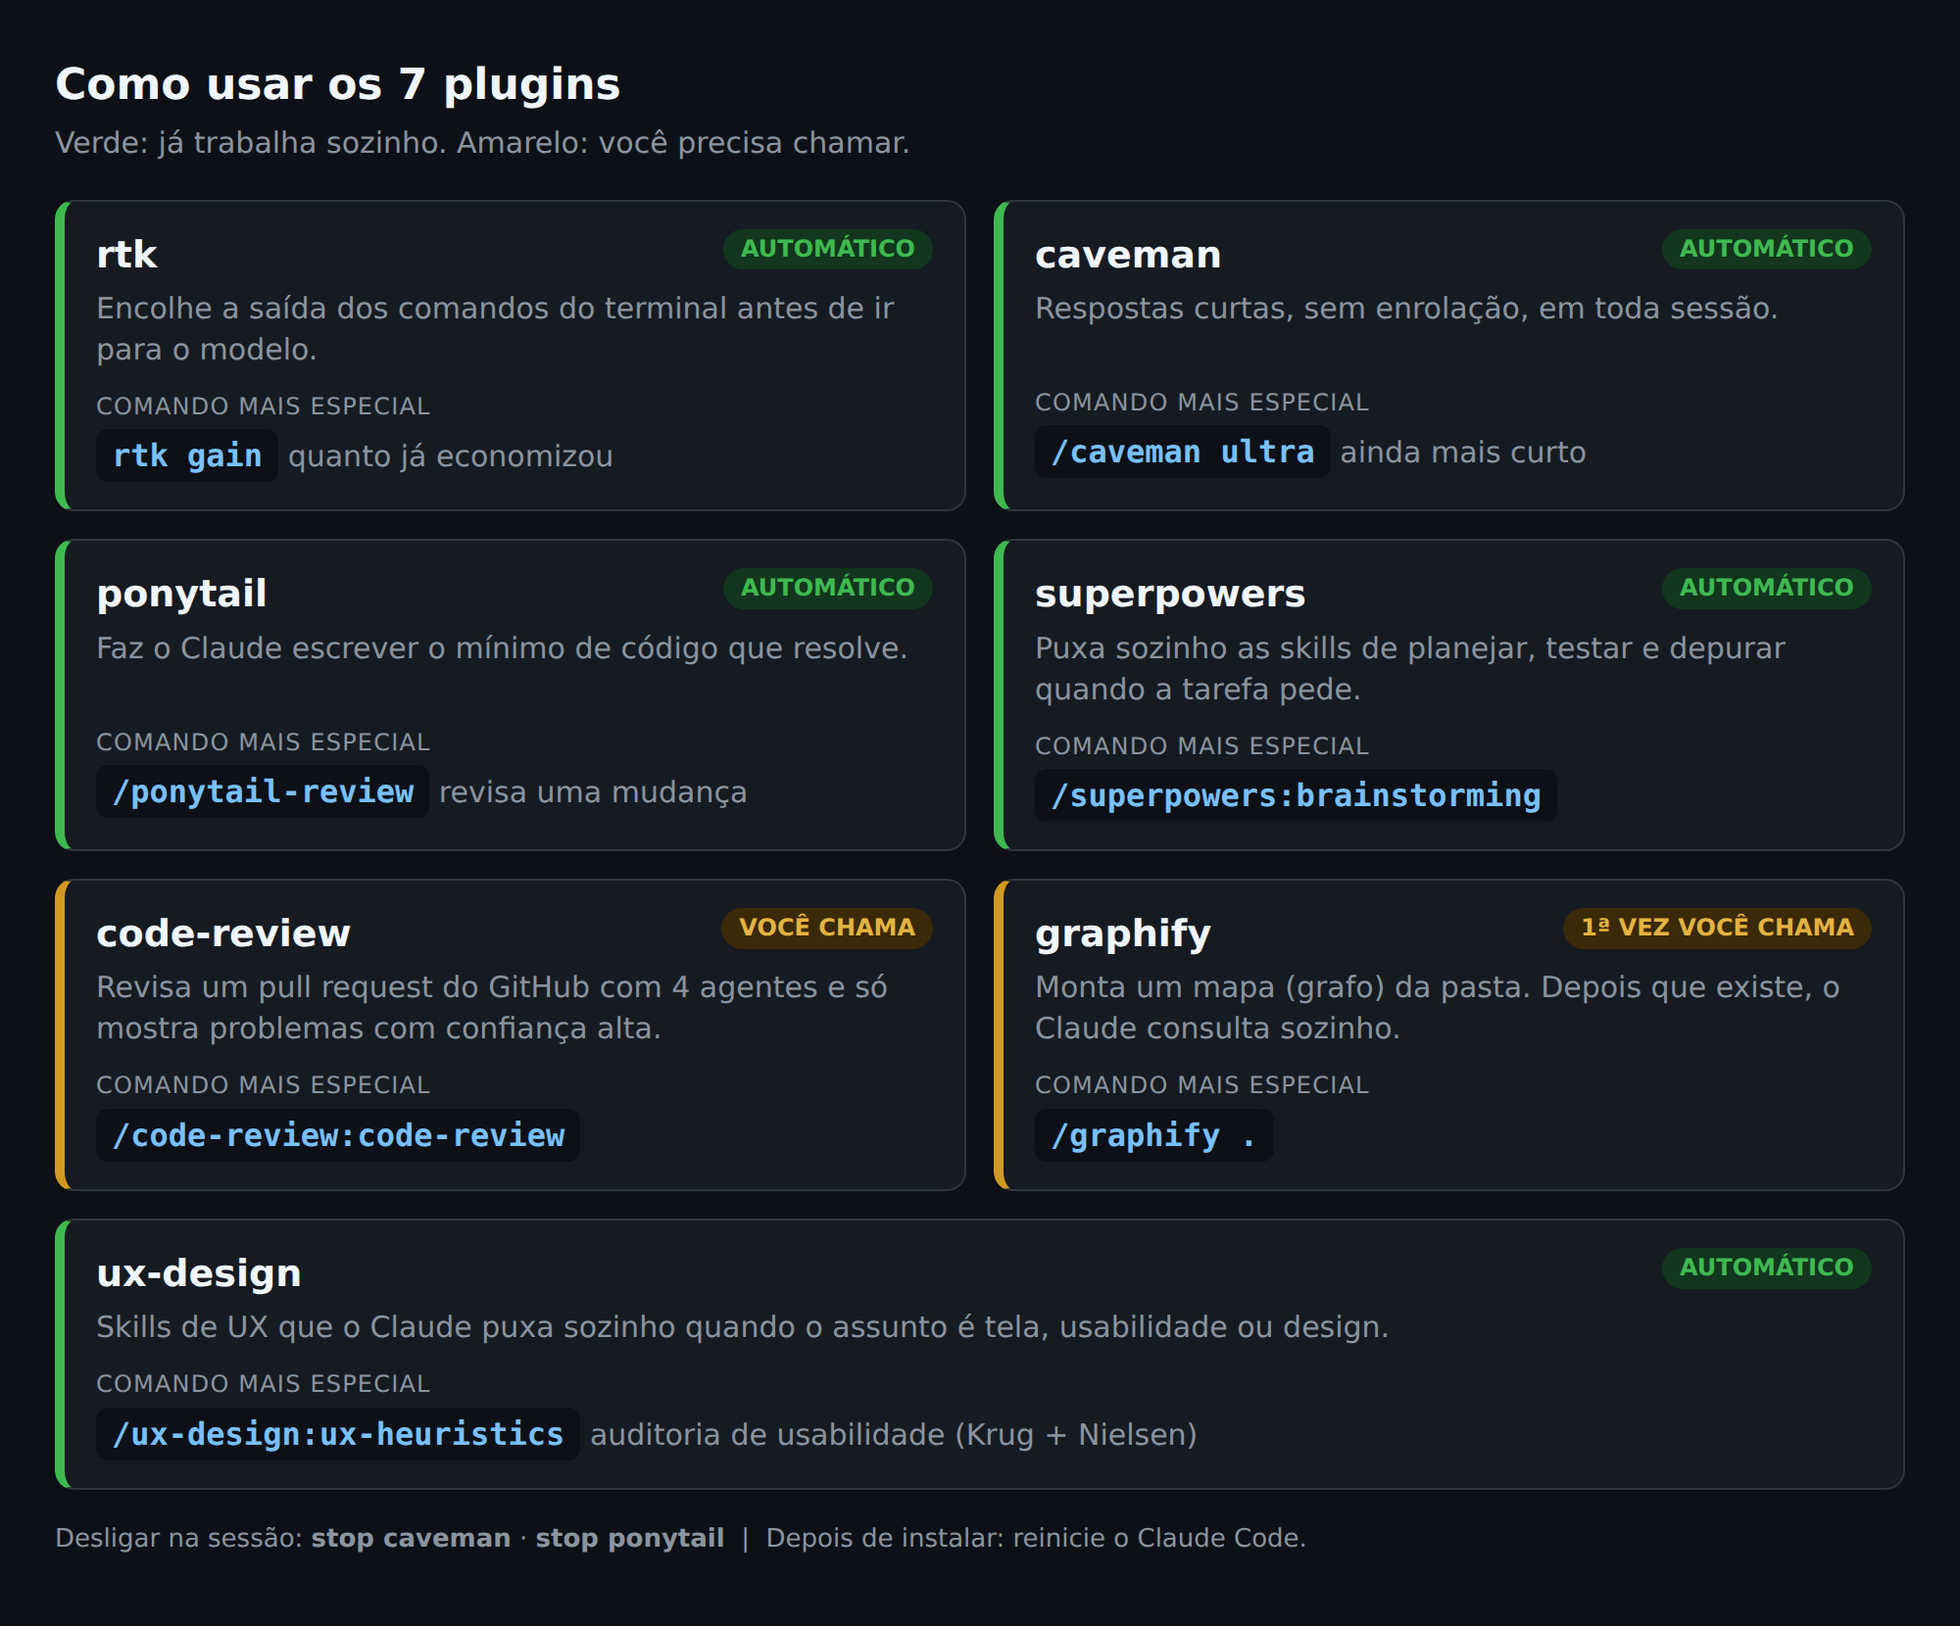
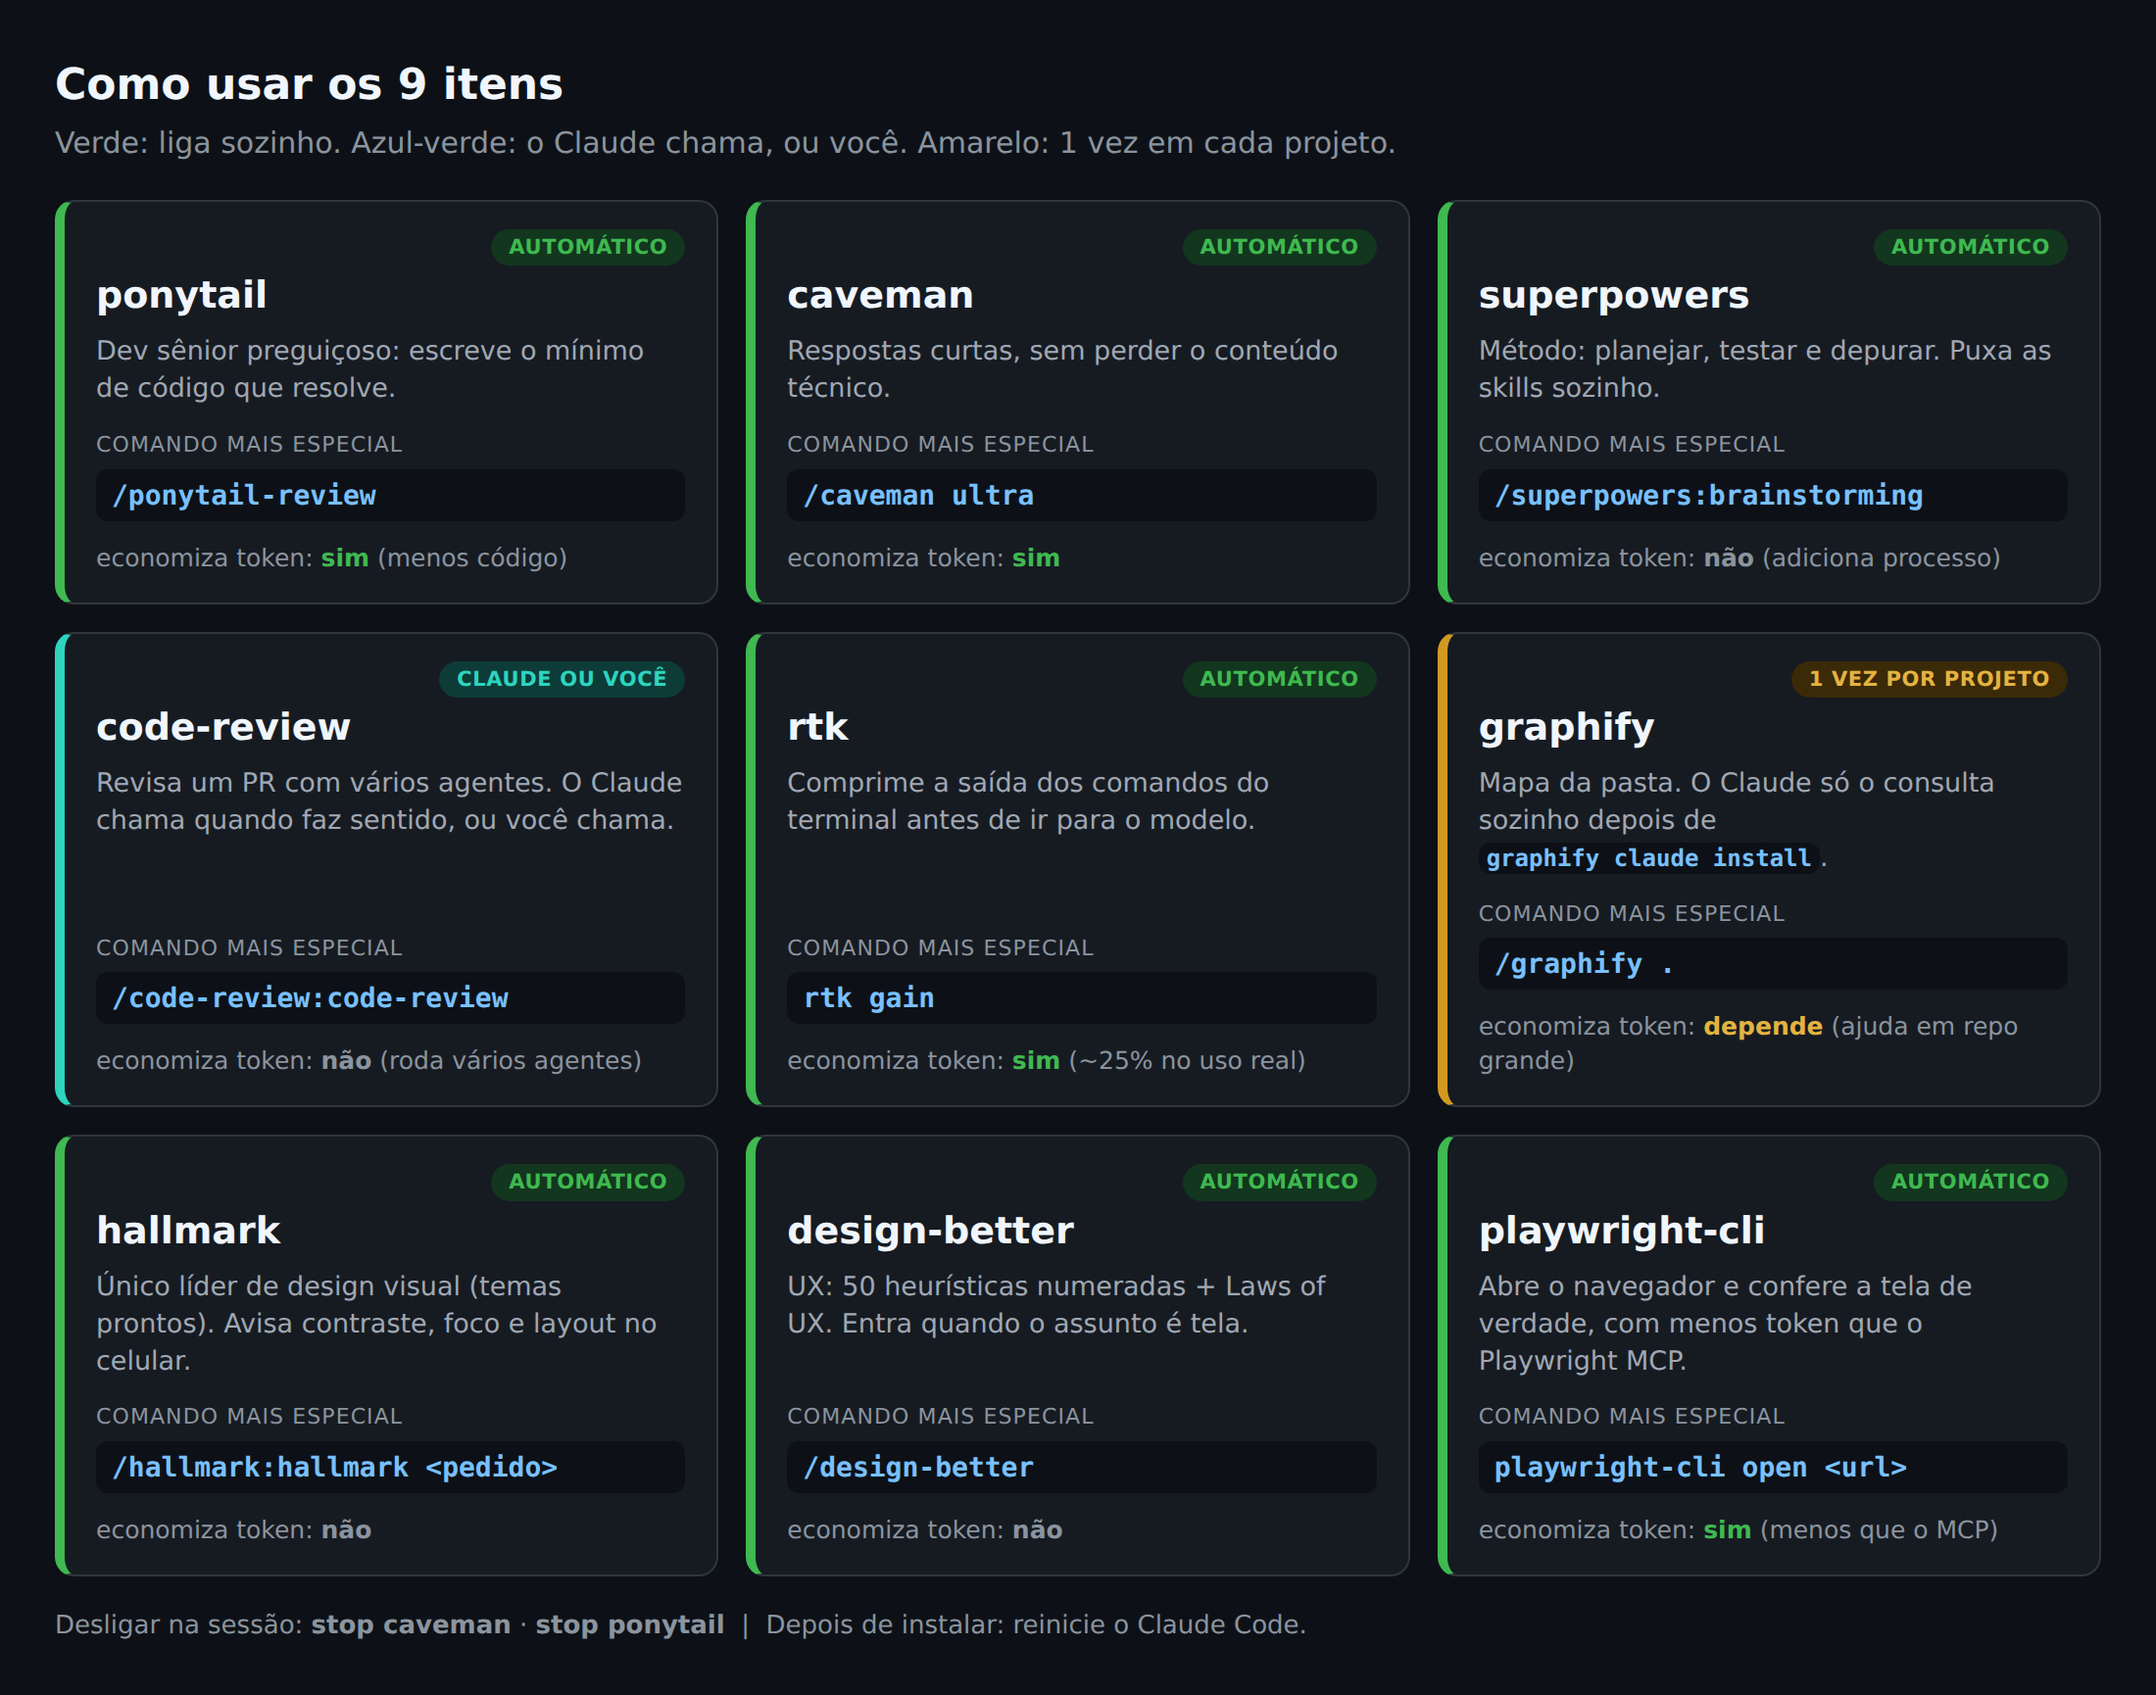
README: visuais novos (como usar, atualização, segunda execução, verificador)

diff --git a/README.md b/README.md
@@ -121,18 +121,22 @@ Uma falha não interrompe as outras etapas. No fim aparece um resumo.
 ## Como fica
 
 Prints reais do `install.sh` no Ubuntu.
+A saída dos instaladores de terceiros (npx, npm, clone dos marketplaces) foi cortada: ficam só as linhas do script.
 
-**Máquina nova** (a saída de cada instalador foi omitida, ficam só as linhas do script):
+**Atualizando do pack antigo** (instala o que faltava e ajusta o resto):
 
-![Instalação numa máquina nova](docs/img/install-fresh.png)
+![Atualizando do pack antigo](docs/img/install-update.png)
 
-**Rodando de novo** (pula o que já está instalado):
+O `⚠` do puppeteer-core é real: o npm falhou por erro de certificado da rede dessa máquina.
+Ele é opcional (só a checagem renderizada do Hallmark usa) e o resto seguiu normal.
 
-![Tudo já instalado](docs/img/install-skip.png)
+**Rodando de novo** (tudo pulado, nada muda; só o hook do Hallmark é regravado, porque leva a versão do plugin):
 
-**Falta um pré-requisito** (explica, espera o Enter e para sem mudar nada):
+![Segunda execução: tudo pulado](docs/img/install-skip.png)
 
-![Falta pipx](docs/img/install-missing.png)
+**Só conferir** (`--check`, não instala nada):
+
+![Verificador](docs/img/install-check.png)
 
 O `install.ps1` mostra as mesmas etapas e status no Windows; ainda não há print dele.
 
